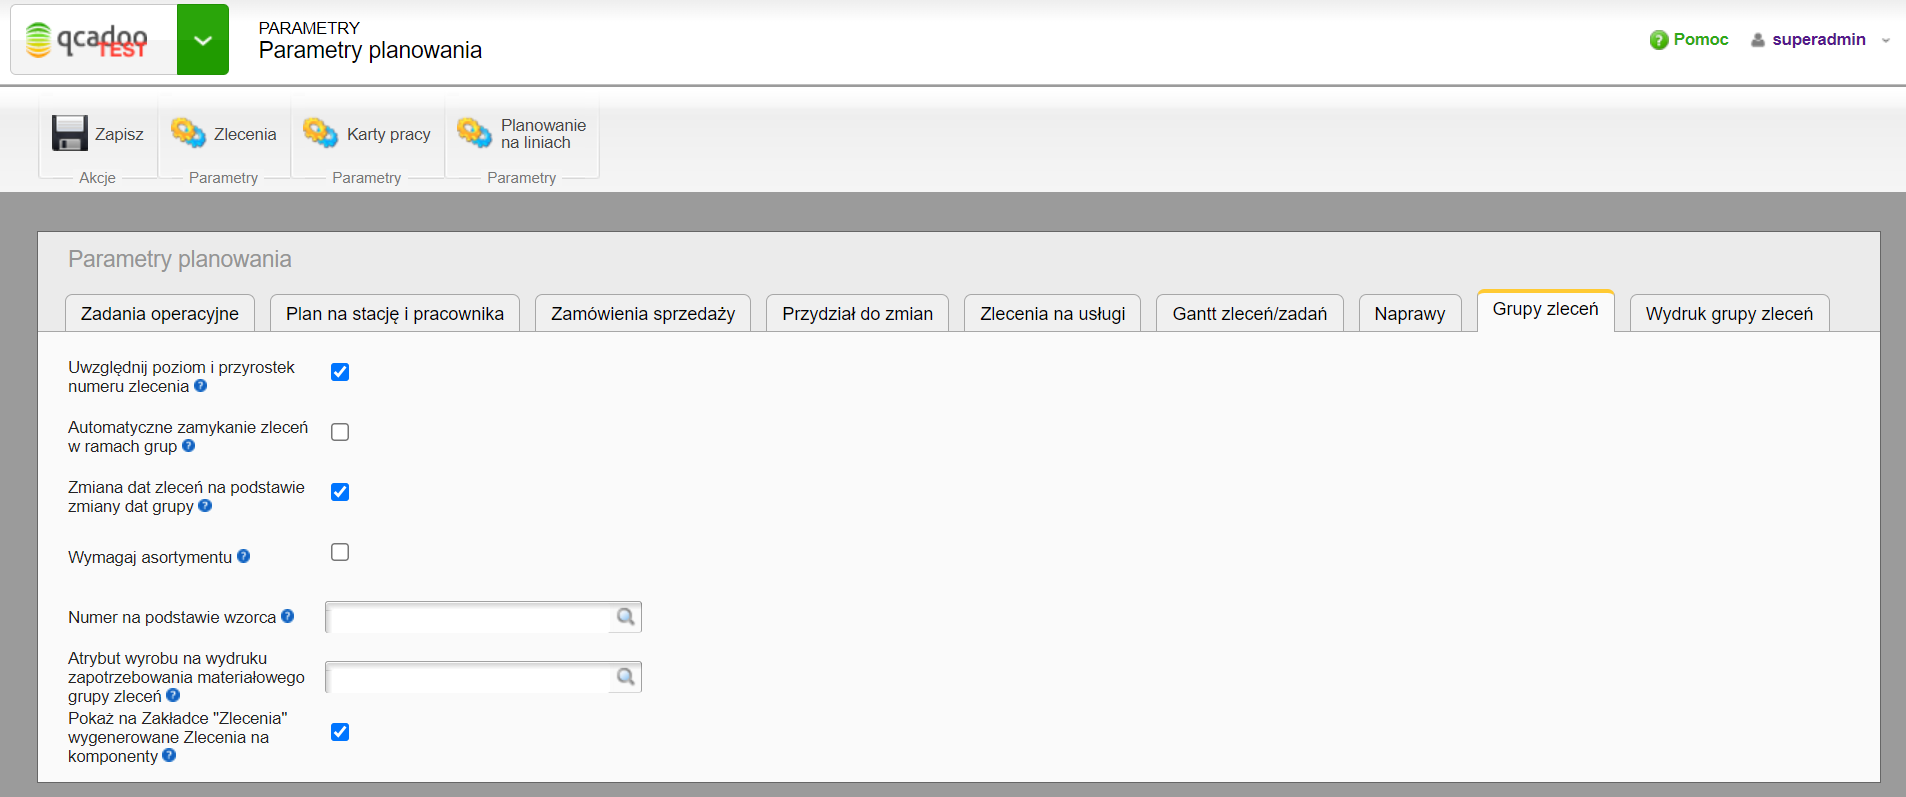
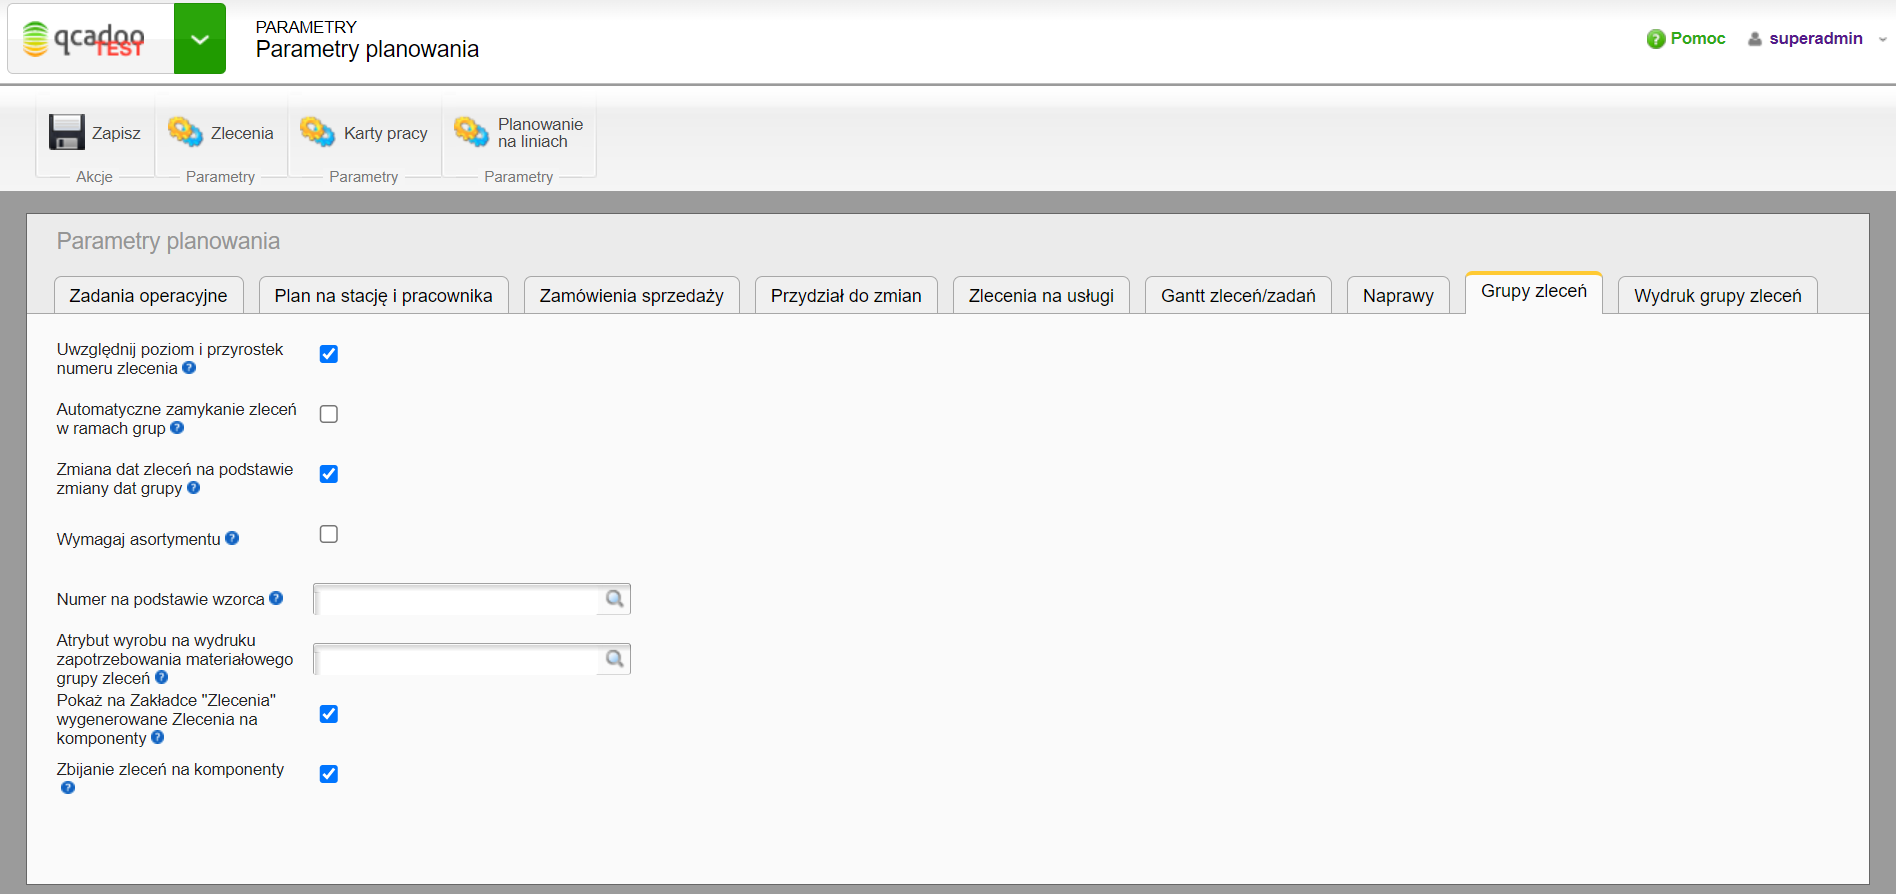
QCADOOINTERNAL-1250

Changed region(s): [[0.0, 0.0, 1.0, 0.9937], [0.1867, 0.813, 0.3423, 0.8733], [0.8402, 0.0301, 0.9958, 0.0602]]

diff --git a/pages/parametry/parametry-planowania/parametry-planowania.md b/pages/parametry/parametry-planowania/parametry-planowania.md
@@ -164,6 +164,8 @@ Po zamknięciu zleceń z grup spróbujemy pozamykać też zamówienia sprzedaży
 
 7. **Pokaż na Zakładce "Zlecenia" wygenerowane Zlecenia na komponenty** - zaznacz parametr jeśli chcesz, aby wygenerowane komponenty z poziomu grupy zleceń trafiły do listy zleceń na produkt finalny. Pozwoli to na przeniesienie zleceń głównych wraz z ich komponentami do [pokrycia zapotrzebowania](/pokrycie-zapotrzebowania) jako dane wejściowe
 
+8. **Zbijanie zleceń na komponenty** - zaznacz parametr, a wygenerowane zlecenia na komponenty w [grupie zleceń](/grupy-zlecen) zostaną połączone ze sobą w jedno zlecenie według komponentu. Utworzone zlecenie nie będzie już powiązane z żadnym innym zleceniem.
+
 ## Wydruk grupy zleceń
 
 Parametry w tej zakładce przydadzą się (tak jak w przypadku poprzedniej zakładki), gdy używasz do rozpisywania zleceń na produkcji [grup zleceń](/grupy-zlecen). A dokładniej - gdy chcesz grupy zleceń drukować.
